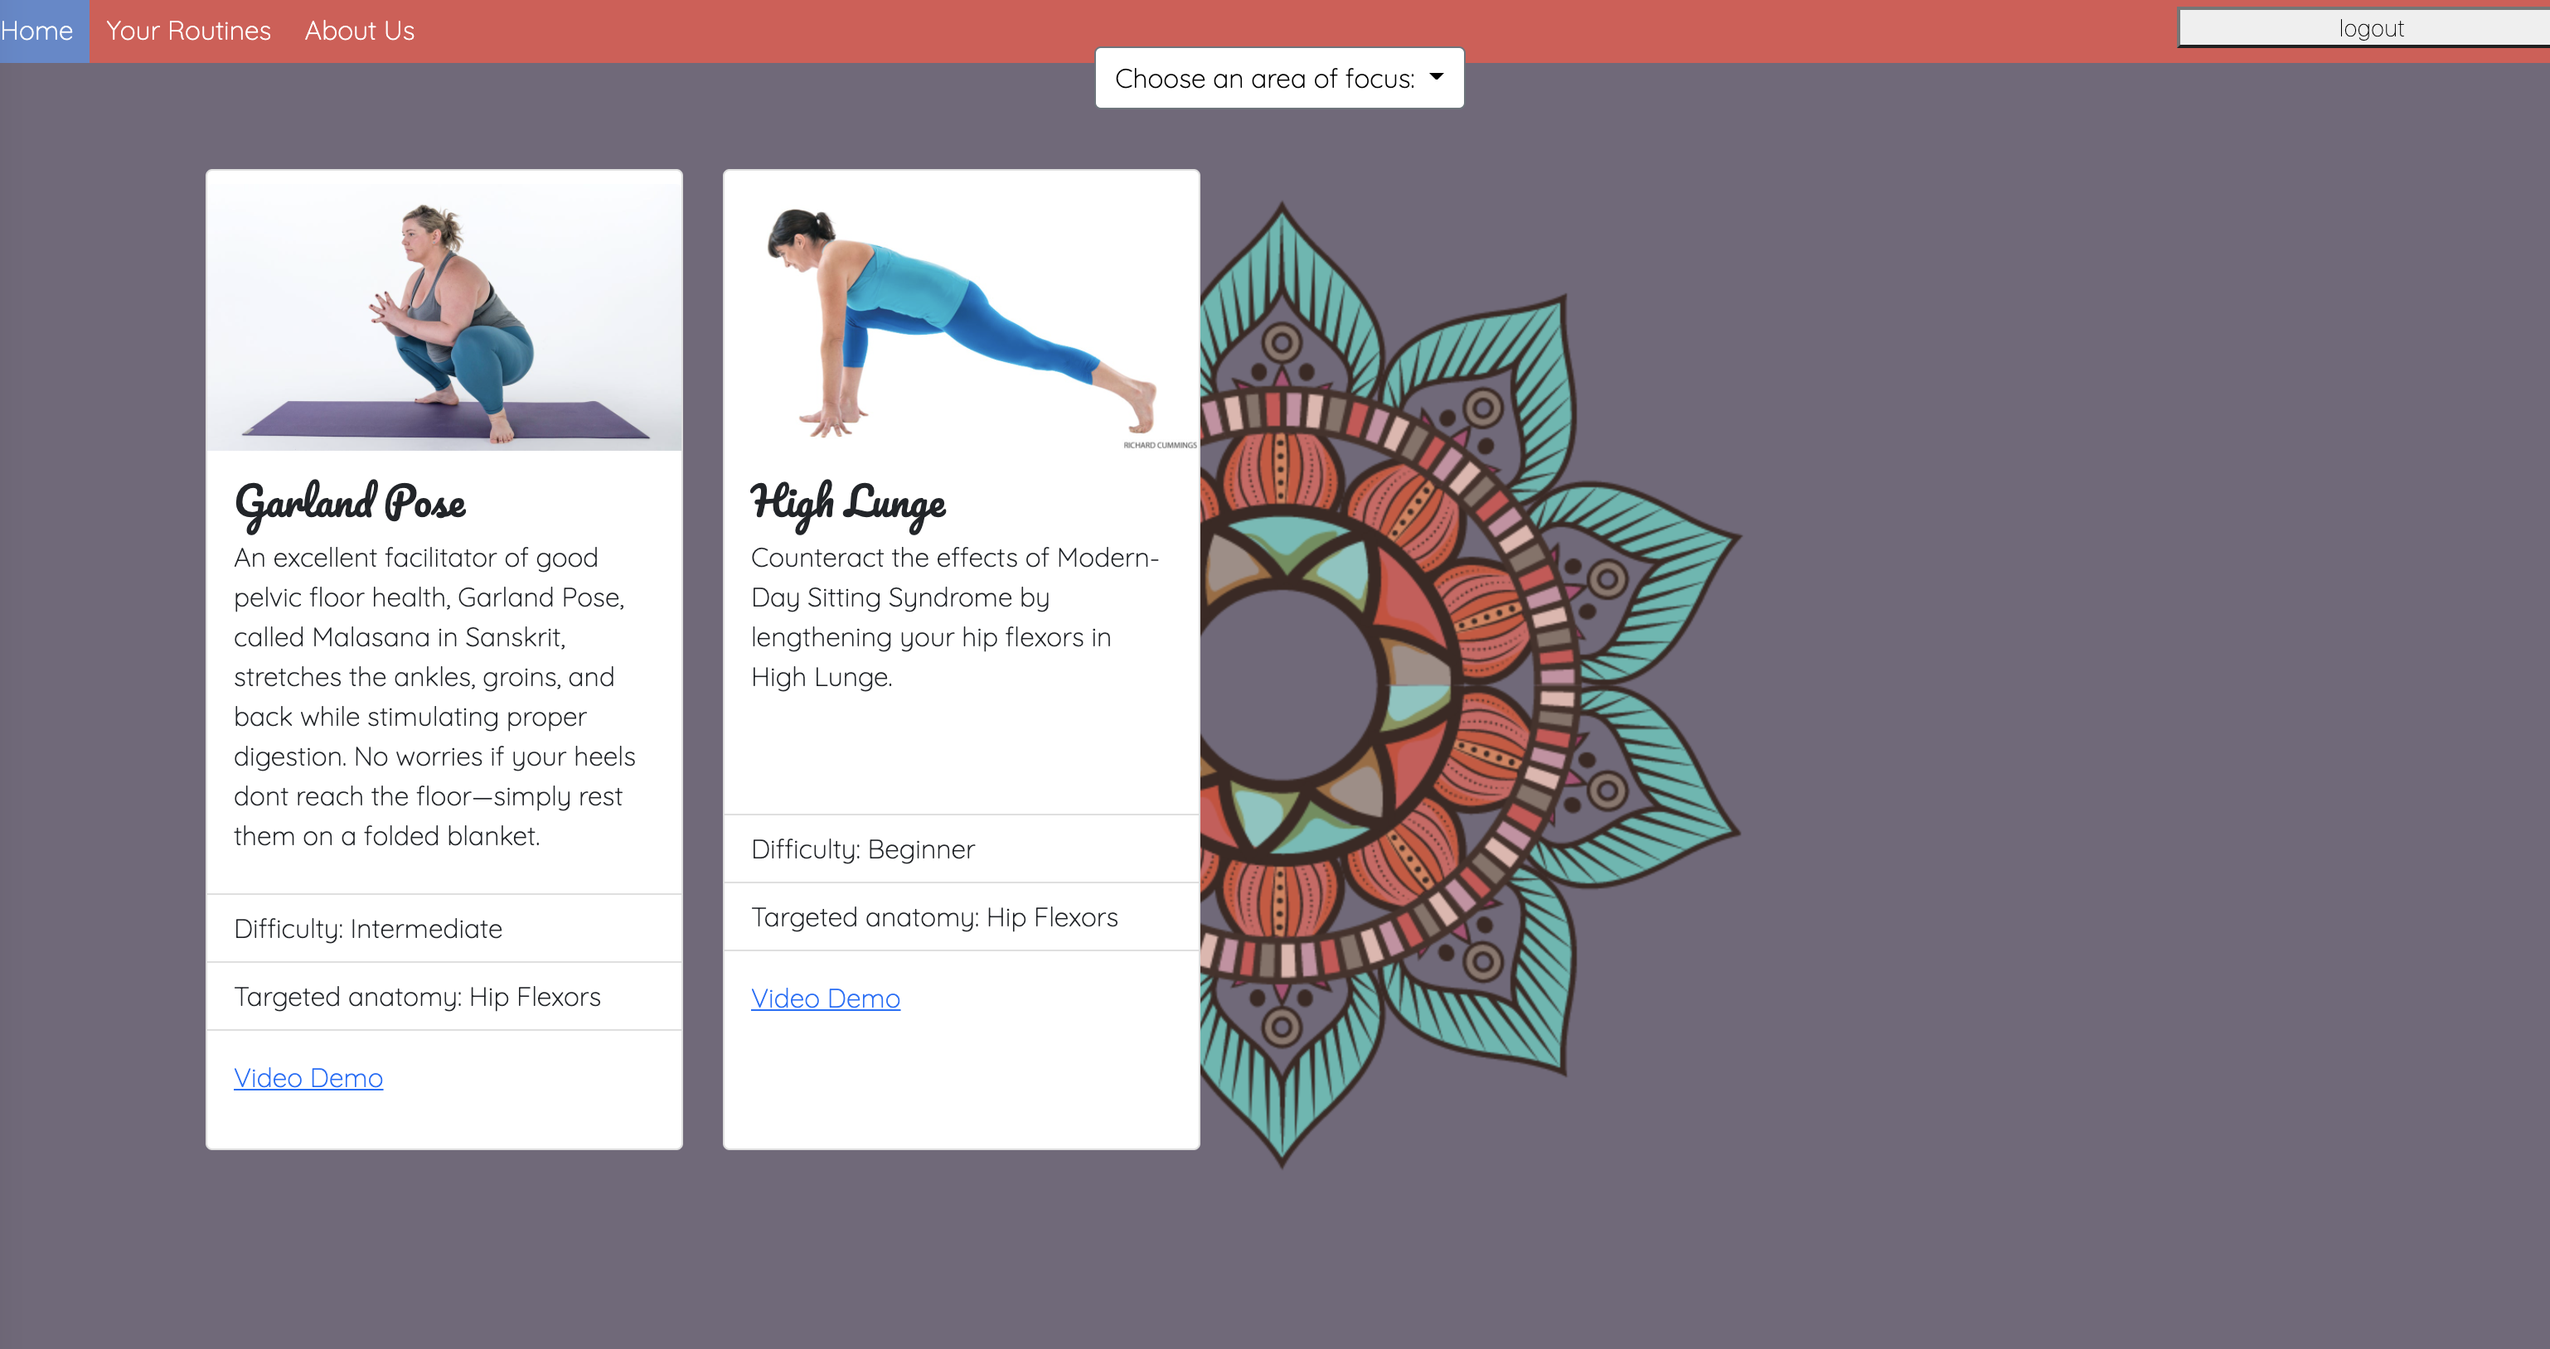
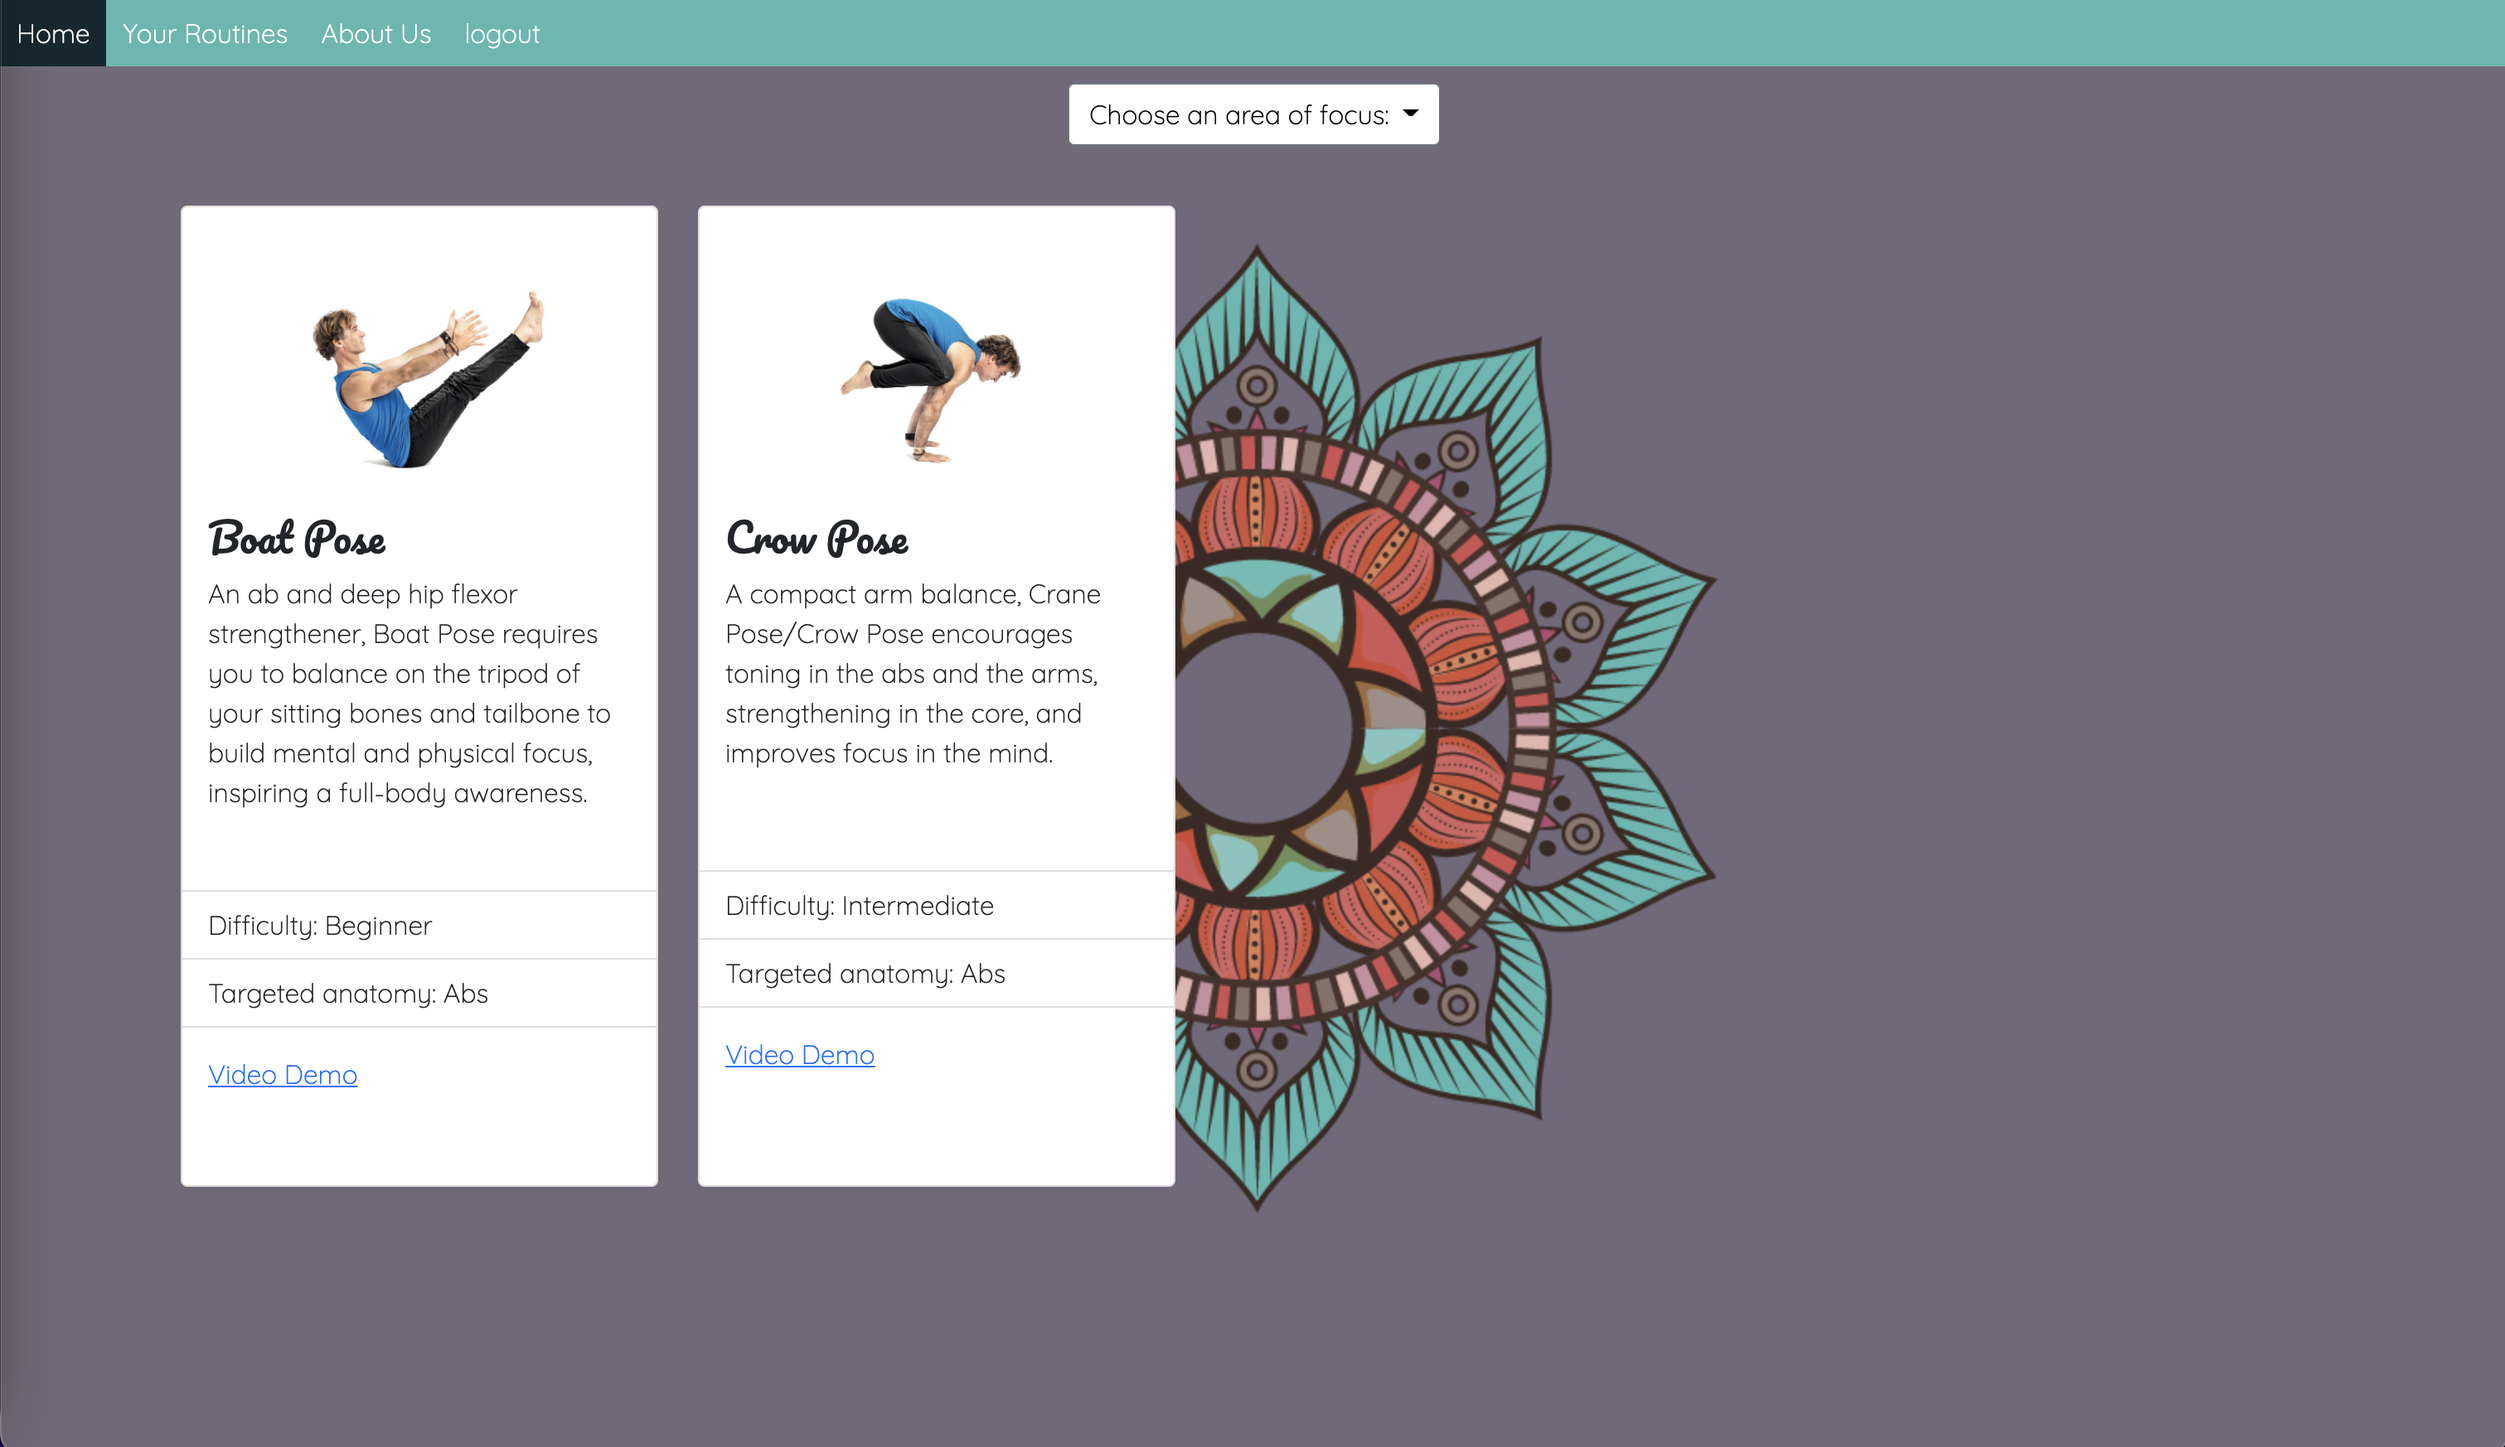
update readme with deployed link and updated search results screenshot

Changed region(s): [[0.0, 0.0, 1.0, 0.86]]

diff --git a/README.md b/README.md
@@ -11,7 +11,7 @@ This application allows yoga enthusiasts to learn more about yoga poses. Users c
 
 ---------------------------
 ## Usage
-To use the application, visit the website and enter your desired username and password in the SignUp form. Once logged in choose an area of your anatomy that you would like to focus on. The proper poses per target group will be displayed, there you will find the difficulty level, a quick description of the pose, an image demo and even a link to a live demo via youtube.
+To use the application, visit the website [here](https://yoga-finish.herokuapp.com/) and enter your desired username and password in the SignUp form. Once logged in choose an area of your anatomy that you would like to focus on. The proper poses per target group will be displayed, there you will find the difficulty level, a quick description of the pose, an image demo and even a link to a live demo via youtube.
 
 ---------------------------
 ## Technologies used
@@ -41,3 +41,4 @@ To use the application, visit the website and enter your desired username and pa
 * Increase user experience and interaction by allowing comments/feedback on poses
 
 If you have ideas for our application- submit an issue and label it as 'enhancement' and we'll take a look!
+
